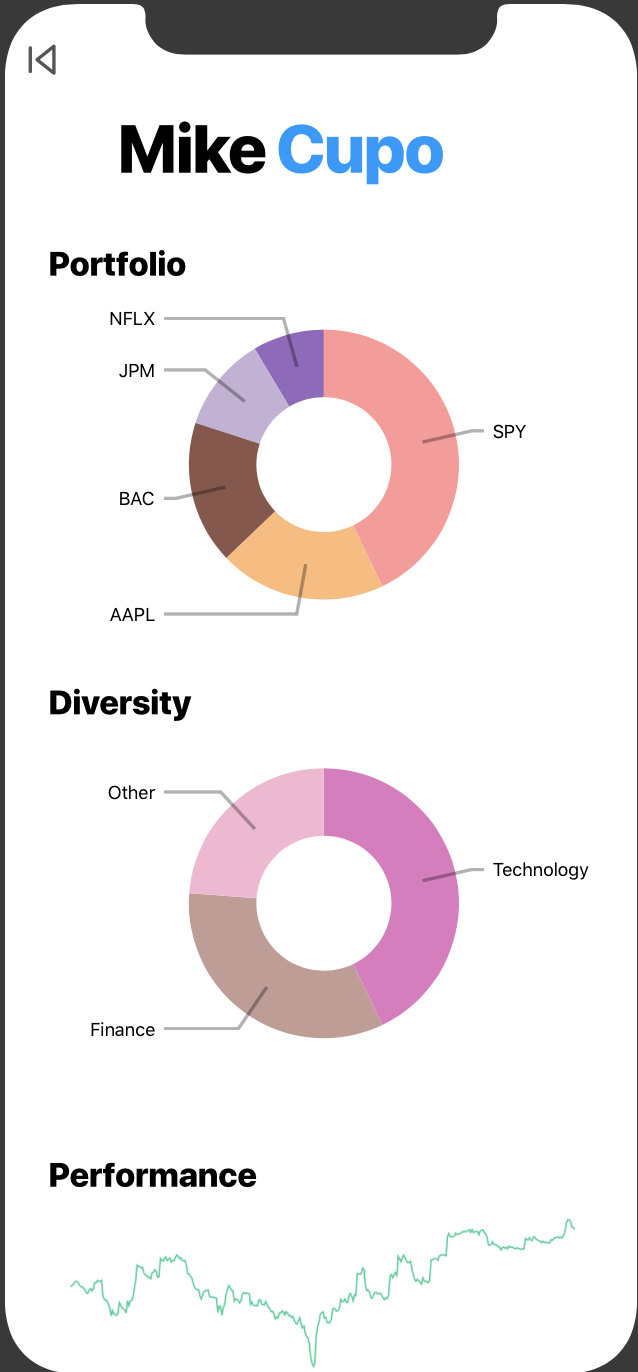
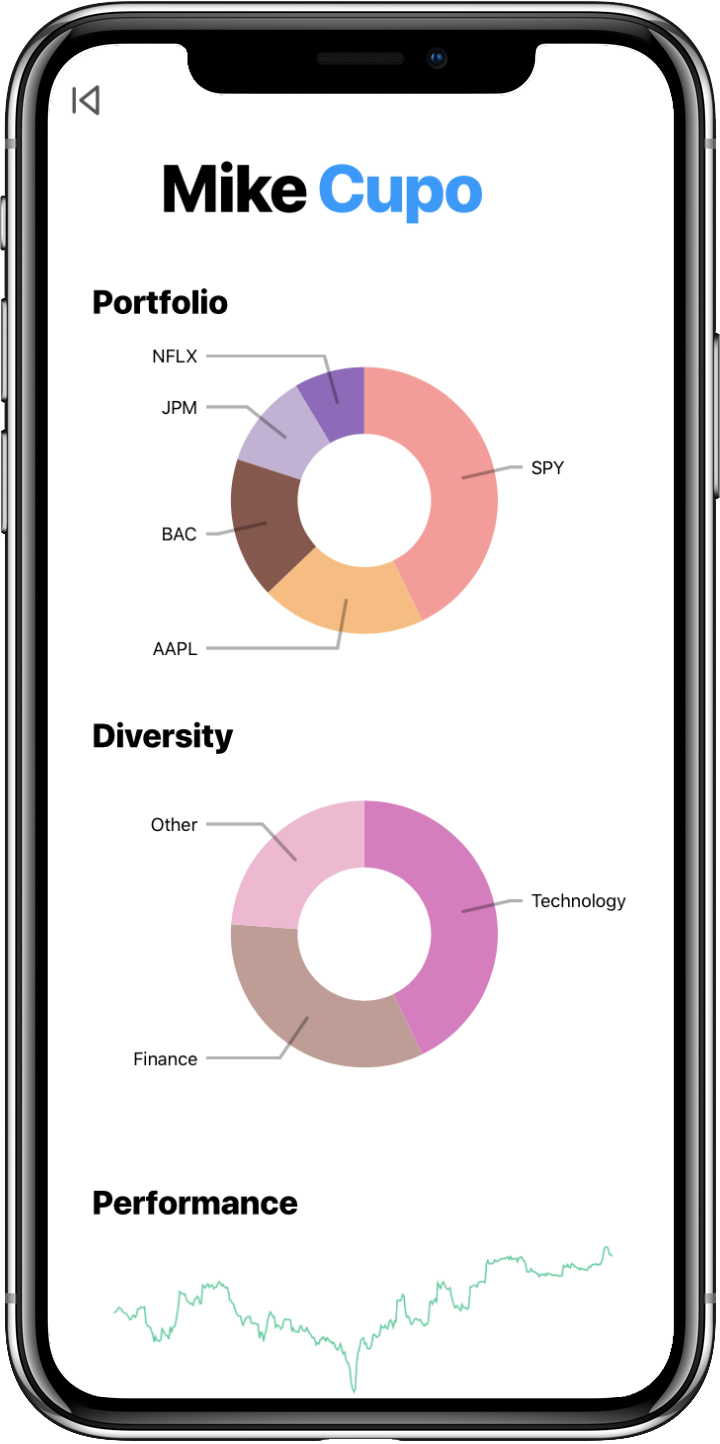
Updated images to show in phone

diff --git a/index.html b/index.html
@@ -87,8 +87,8 @@
 						</div>
 					</div>
 				</div>
-				<div class="banner-img col-lg-4 col-md-6">
-					<img class="img-fluid" src="img/banner-img.png" alt="">
+				<div class="banner-img">
+					<img class="img-fluid" src="img/newfeed.png" alt="" style="max-width: 350px">
 				</div>
 			</div>
 		</div>
